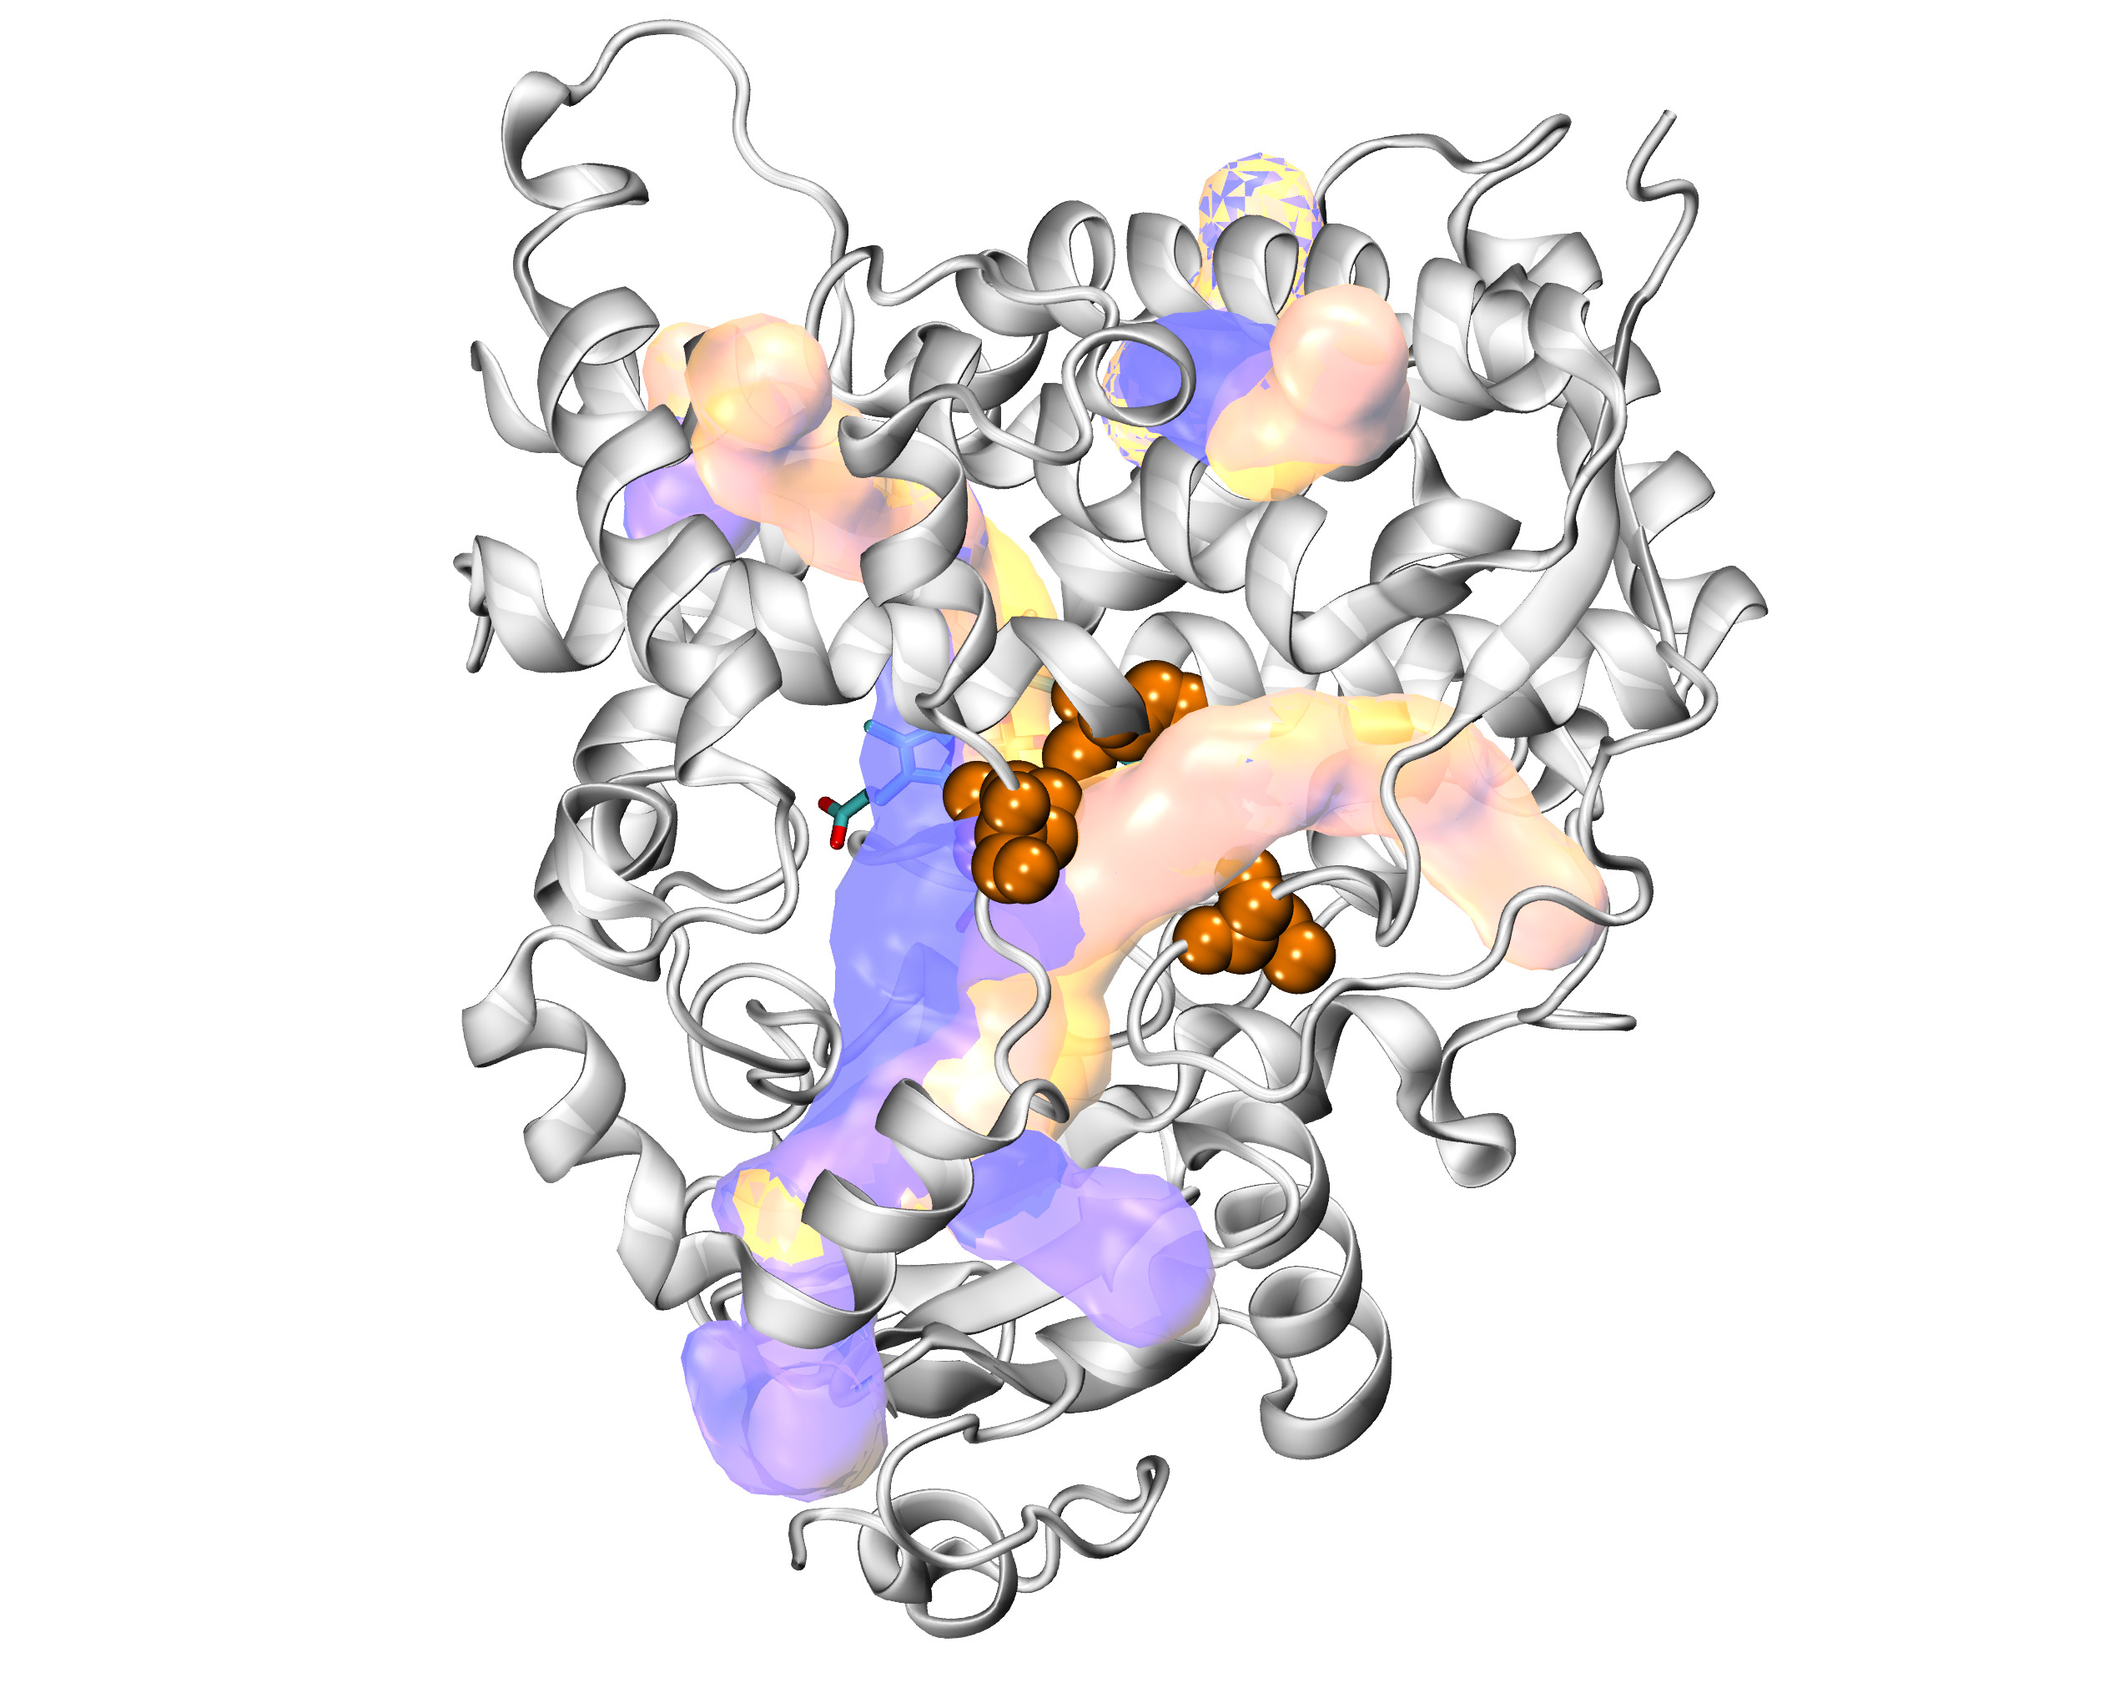
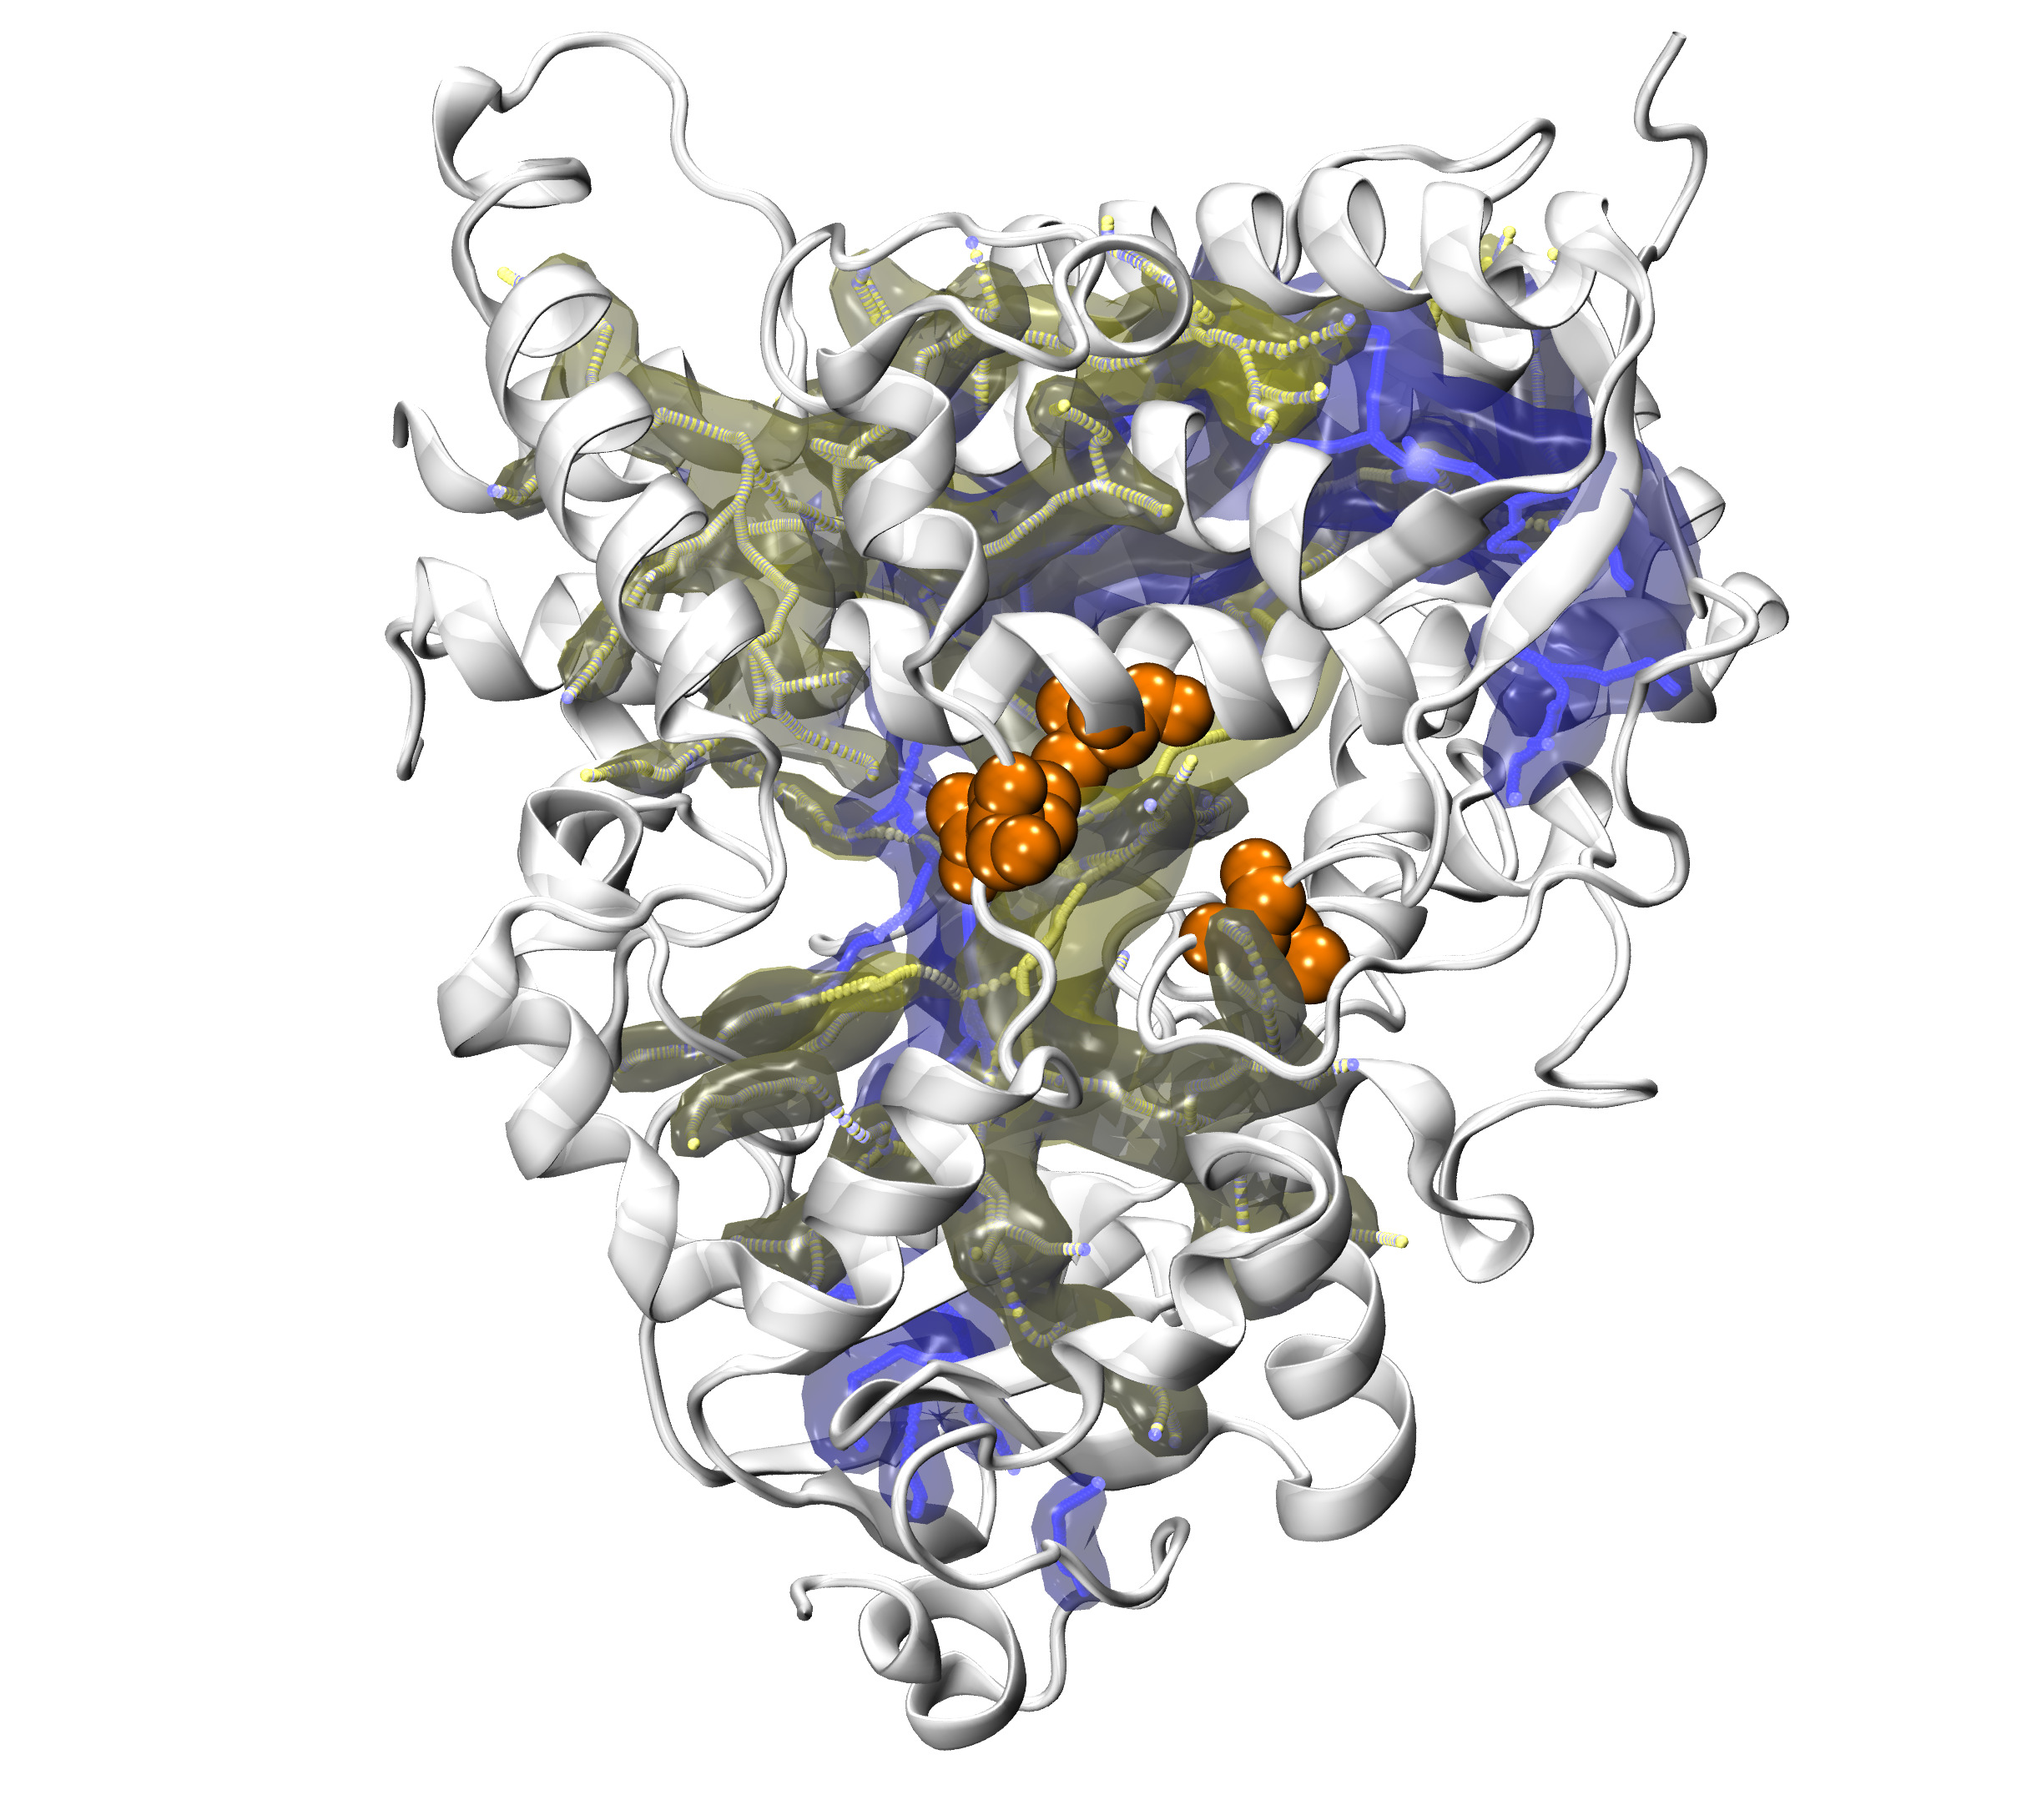
CaviTracer - singlePDB - new fig 19 (start_points comparison after JB changes)

diff --git a/tutorials/cavitracer_tutorial/singlePDB.rst b/tutorials/cavitracer_tutorial/singlePDB.rst
@@ -508,7 +508,7 @@ geometric center is used as the starting point.
 
 Below is the visualization of channel identification for the two different starting
 points mentioned above. The blue one represents identification of channels when
-the starting point is [-22.312, -20.065, -11.144], whereas the orange one
+the starting point is [-22.312, -20.065, -11.144], whereas the dark-yellow one
 represents identification based on the center of the mass for residues 212, 309,
 and 483 (displayed as orange spheres). 
 
